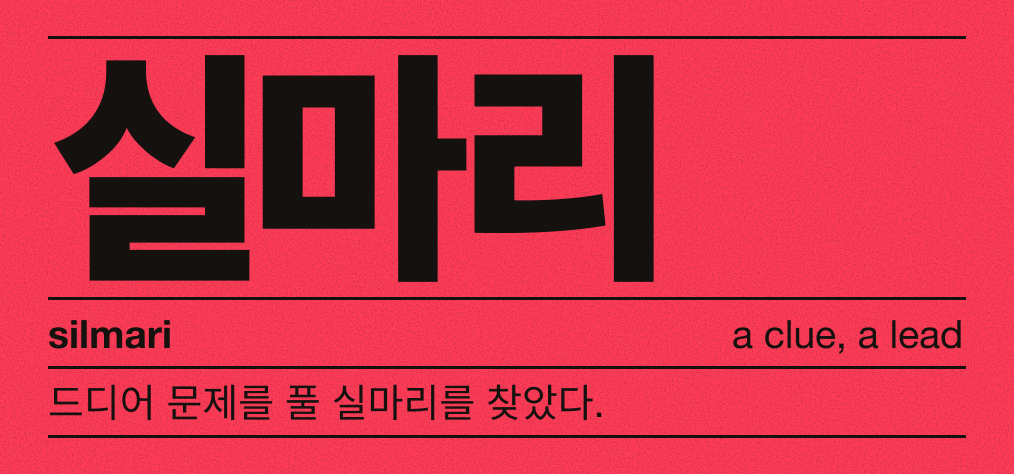
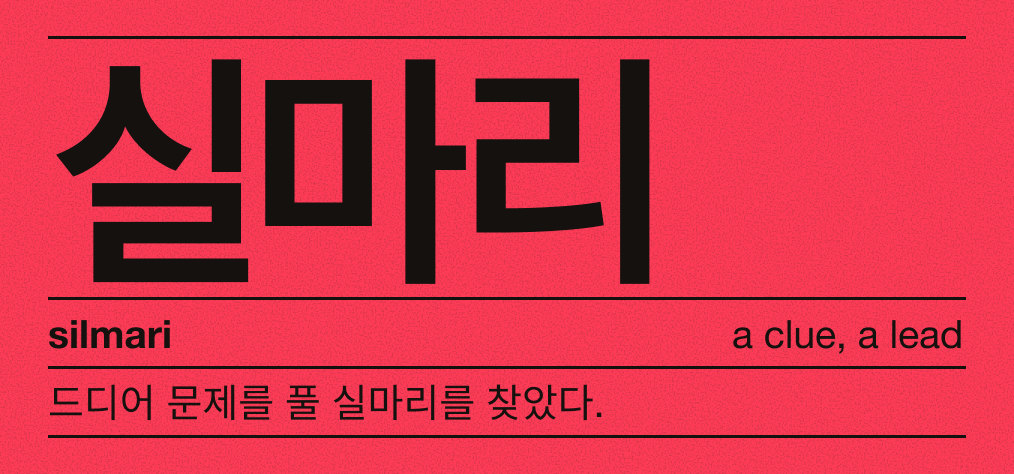
Build the poster layout in Scriptable

diff --git a/Vocab Widget.js b/Vocab Widget.js
@@ -7,6 +7,36 @@ const words = [
 const papers = ["#8FD9EC", "#FF3B57", "#7CFFB0", "#B57BFF", "#E8FF5A", "#2F86FF", "#FFB3CB"]
 const ink = new Color("#14110F")
 
+function addRule(stack) {
+    const rule = stack.addStack()
+    rule.size = new Size(0, 1)
+    rule.backgroundColor = ink
+    rule.addSpacer()
+}
+
+const WIDGET_SIZES = {
+    430: [364, 170],
+    428: [364, 170],
+    414: [360, 169],
+    402: [348, 164],
+    393: [338, 158],
+    390: [338, 158],
+    375: [329, 155],
+}
+
+function widgetSize() {
+    const screen = Math.round(Device.screenSize().width)
+    if (WIDGET_SIZES[screen]) return WIDGET_SIZES[screen]
+    const scale = screen / 390
+    return [Math.round(338 * scale), Math.round(158 * scale)]
+}
+
+const [WIDGET_WIDTH, WIDGET_HEIGHT] = widgetSize()
+const COLUMN_WIDTH = WIDGET_WIDTH - 32
+const WORD_AREA = WIDGET_HEIGHT - 24 - 4 - 47 - 12
+const ADVANCE = 0.92
+const INK = 0.9
+
 const start = new Date(2026, 10, 19)
 const today = new Date()
 today.setHours(0, 0, 0, 0)
@@ -18,10 +48,65 @@ const paper = papers[today.getDay()]
 const widget = new ListWidget()
 widget.backgroundColor = new Color(paper)
 
-for (const line of [word.term, word.romanization, word.translation, word.example]) {
-    const text = widget.addText(line)
-    text.textColor = ink
-}
+const dayNames = ["sunday", "monday", "tuesday", "wednesday", "thursday", "friday", "saturday"]
+const day = today.getDay()
+
+const files = FileManager.iCloud()
+const path = files.joinPath(files.documentsDirectory(), `backgrounds/background-${day}-${dayNames[day]}.png`)
+await files.downloadFileFromiCloud(path)
+widget.backgroundImage = files.readImage(path)
+
+widget.setPadding(12, 16, 12, 16)
+
+widget.spacing = 0
+
+addRule(widget)
+widget.addSpacer()
+
+const syllables = [...word.term].length
+const wordSize = Math.min(COLUMN_WIDTH / (syllables * ADVANCE), WORD_AREA / 1.25)
+
+const nudge = wordSize * 0.06
+widget.addSpacer(nudge * 2)
+
+const wordBox = widget.addStack()
+wordBox.size = new Size(COLUMN_WIDTH, WORD_AREA - nudge * 2)
+wordBox.centerAlignContent()
+
+const term = wordBox.addText(word.term)
+term.font = new Font("AppleSDGothicNeo-Bold", wordSize)
+term.textColor = ink
+term.lineLimit = 1
+
+wordBox.addSpacer()
+
+widget.addSpacer()
+addRule(widget)
+
+const caption = widget.addStack()
+caption.setPadding(3, 0, 3, 0)
+
+const romanization = caption.addText(word.romanization)
+romanization.font = new Font("HelveticaNeue-Bold", 13)
+romanization.textColor = ink
+
+caption.addSpacer()
+
+const translation = caption.addText(word.translation)
+translation.font = new Font("HelveticaNeue", 13)
+translation.textColor = ink
+
+addRule(widget)
+
+const exampleRow = widget.addStack()
+exampleRow.setPadding(3, 0, 3, 0)
+
+const example = exampleRow.addText(word.example)
+example.font = new Font("AppleSDGothicNeo-Regular", 13)
+example.textColor = ink
+example.lineLimit = 1
+
+addRule(widget)
 
 if (config.runsInApp) {
     await widget.presentMedium()

diff --git a/DESIGN.md b/DESIGN.md
@@ -12,7 +12,7 @@ Medium widget, designed at 338 × 158 pt and checked at 364 × 170 pt.
 |---|---|
 | Widget | Padding 12 top and bottom, 16 left and right. One column, full width. No side column |
 | Top rule | 1 pt rule across the top of the column |
-| Korean word | Fills the remaining height and is sized each day to fit the full column width, bottom-aligned just above the caption row |
+| Korean word | Sized each day from its syllable count: as wide as the column allows, capped by the height. Optically centered between the top rule and the caption rule |
 | Caption row | Romanization on the left, translation on the right, 1 pt rule on top, 3 pt vertical padding |
 | Example row | Example sentence, 1 pt rules on top and bottom, 3 pt vertical padding |
 
@@ -22,12 +22,18 @@ The weekday and date are not shown. The daily paper color marks each new day.
 
 | Element | Font | Size | Line height |
 |---|---|---|---|
-| Korean word | Apple SD Gothic Neo Heavy, -5.5% letter spacing | Fitted to width, 62 at minimum for 4 syllables | 100% |
+| Korean word | Apple SD Gothic Neo Bold, default letter spacing | Fitted to width or height | Default |
 | Romanization | Helvetica Neue Bold | 13 | 16 |
 | Translation | Helvetica Neue Regular | 13 | 16 |
 | Example sentence | Apple SD Gothic Neo Regular | 13 | 16 |
 
 Example sentences must fit on one line, about 20 to 23 Korean characters at most.
+
+Apple SD Gothic Neo stops at Bold on iPhone. Heavy exists only on the Mac, and Scriptable has no letter-spacing setting, so the built widget uses Bold at default spacing.
+
+## Screen sizes
+
+The script looks up the medium widget size from the iPhone's screen width, then derives the column width and the word area from it. Unknown phones get an estimate scaled from the iPhone 13 size (338 × 158). Measured on an iPhone 17: screen width 402, widget about 348 × 164.
 
 ## Color
 
